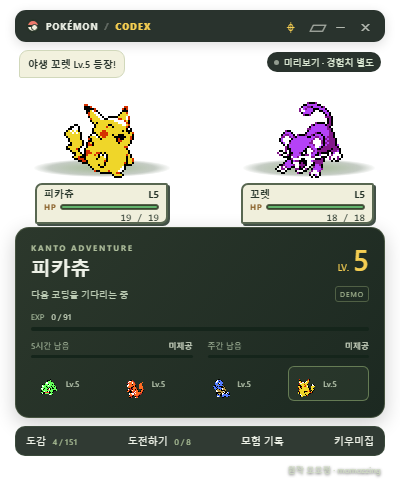
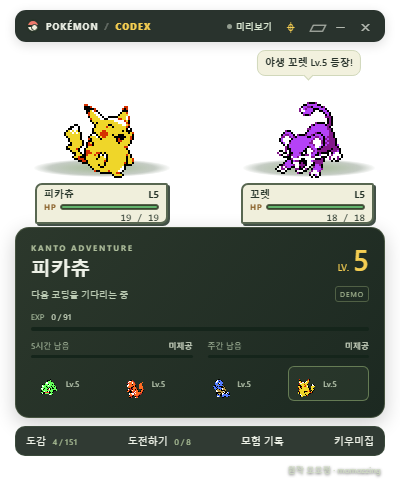
Place connection beside pin and show actions above each Pokemon

Changed region(s): [[0.03, 0.093, 0.33, 0.186], [0.63, 0.093, 0.96, 0.186], [0.57, 0.031, 0.69, 0.062]]

diff --git a/desktop/renderer.js b/desktop/renderer.js
@@ -1,6 +1,6 @@
 'use strict';
 const $=id=>document.getElementById(id),fmt=n=>Math.floor(n).toLocaleString('ko-KR');
-let serial=0,current=null,switching=false,timers=[],animations=[],captureRaf=0,moveRaf=0,playingMove=null;
+let serial=0,current=null,switching=false,timers=[],animations=[],captureRaf=0,moveRaf=0,playingMove=null,speechTimer=0;
 for(const action of ['pin','compact','hide','close'])$(action).onclick=()=>window.buddy.action(action);
 for(const b of document.querySelectorAll('[data-panel]'))b.onclick=()=>window.buddy.action('panel',b.dataset.panel);
 function sprite(element,p){const img=$(element),src='assets/'+p.id+'.gif';if(img.getAttribute('src')!==src)img.src=src;img.alt=p.name;}
@@ -95,10 +95,20 @@ function renderFoe(s){
   [...stars.children].forEach((star,i)=>{const a=[[-27,-18],[0,-33],[27,-18],[8,9]][i];star.style.transform=`translate(${a[0]*spark}px,${a[1]*spark}px) scale(${1-.3*spark})`;});
 }
 function renderSpeech(s){
-  if(s.capture?.leadIn&&Date.now()<s.capture.at){$('speech').textContent=s.capture.leadIn.text;return;}
-  const f=s.capture&&CaptureAnimation.captureFrame(s.capture,Date.now()),recent=s.animation&&Date.now()-s.animation.at<5000;
-  $('speech').textContent=f&&(f.locked||s.animation?.kind==='capture')?f.text:recent?s.animation.text:s.battle?.kind==='trainer'?s.battle.boss+'에게 도전 중':s.battle?'다음 작업과 함께 배틀을 이어가요':'오늘은 어떤 포켓몬을 만날까?';
-  $('speech').title=s.animation?.detail||$('speech').textContent;
+  clearTimeout(speechTimer);speechTimer=0;
+  const now=Date.now(),capture=s.capture,f=capture&&CaptureAnimation.captureFrame(capture,now);
+  let event=capture?.leadIn&&now<capture.at?capture.leadIn:s.animation,text='',speaker='scene',expires=0;
+  if(capture&&now>=capture.at&&(f.locked||s.animation?.kind==='capture'))text=f.text;
+  else if(event&&now>=event.at&&now-event.at<2400){
+    text=event.text;expires=event.at+2400;
+    if(event.kind==='attack')speaker=event.actor==='foe'?'foe':'hero';
+    else if(event.kind==='switch')speaker='hero';
+    else if(event.kind==='encounter')speaker='foe';
+  }else text=s.battle?.kind==='trainer'?s.battle.boss+'에게 도전 중':s.battle?'다음 작업과 함께 배틀을 이어가요':'오늘은 어떤 포켓몬을 만날까?';
+  const bubble=$('speech');bubble.dataset.speaker=speaker;$('speech-text').textContent=text;
+  bubble.title=event?.detail?text+' · '+event.detail:text;
+  // Clear an expired action even when no new state arrives from an idle Codex session.
+  if(expires&&!(f?.locked))speechTimer=setTimeout(()=>{if(current)renderSpeech(current);},Math.max(1,expires-now+10));
 }
 function refreshScene(){
   if(captureRaf)cancelAnimationFrame(captureRaf);captureRaf=0;
@@ -114,8 +124,8 @@ window.buddy.onState(s=>{
   $('xp-bar').style.width=s.progress*100+'%';$('evolution').textContent=s.evolution.some(e=>e.ready)?'진화 가능 · 도감에서 확인':'';
   $('status').textContent=s.notice||(s.battle?.kind==='trainer'?s.battle.boss+'에게 도전 중':s.phase==='working'?'Codex 작업과 함께 모험 중':s.workTokens>=250?'작업의 여운으로 모험을 이어가는 중':s.phase==='done'?'작업 끝! 모험 기록을 확인해 봐':'다음 코딩을 기다리는 중');
   $('mode-tag').textContent=s.demo?'DEMO':'LIVE';
-  $('connection-label').textContent=s.demo?'미리보기 · 경험치 별도':s.source.connected?'Codex 연결됨':'Codex 기다리는 중';
-  $('connection-label').parentElement.classList.toggle('live',s.source.connected&&!s.demo);$('connection-label').title=s.source.error||'로컬 작업 상태만 읽어요';
+  $('connection-label').textContent=s.demo?'미리보기':s.source.connected?'Codex 연결됨':'Codex 기다리는 중';
+  $('connection-label').parentElement.classList.toggle('live',s.source.connected&&!s.demo);$('connection-label').title=s.demo?'미리보기 · 경험치 별도':s.source.error||'로컬 작업 상태만 읽어요';
   s.limits.forEach((limit,i)=>{const prefix=i===0?'limit-a':'limit-b';$(prefix+'-value').textContent=limit.left===null?'미제공':limit.left+'%';$(prefix+'-bar').style.width=(limit.left??0)+'%';});
   if($('party').dataset.ids!==s.slots.map(p=>p.uid).join(',')){
     $('party').replaceChildren(...s.slots.map((p,i)=>{const b=document.createElement('button');b.dataset.slot=i;b.onclick=()=>window.buddy.action('select',Number(b.dataset.id));const img=document.createElement('img');img.alt='';b.append(img,document.createElement('small'));return b;}));$('party').dataset.ids=s.slots.map(p=>p.uid).join(',');

diff --git a/desktop/index.html b/desktop/index.html
@@ -8,16 +8,15 @@
 <main class="widget">
   <header class="toolbar">
     <div class="brand"><span class="pokeball"></span>POKÉMON <span>/</span> <b>CODEX</b></div>
-    <nav aria-label="위젯 조작">
+    <div class="toolbar-right"><div class="connection"><i></i><span id="connection-label">연결 준비 중</span></div><nav aria-label="위젯 조작">
       <button id="pin" title="항상 위에" aria-label="항상 위에" aria-pressed="true">⌖</button>
       <button id="compact" title="작게 보기" aria-label="작게 보기">▱</button>
       <button id="hide" title="트레이로 숨기기" aria-label="트레이로 숨기기">−</button>
       <button id="close" title="종료" aria-label="종료">×</button>
-    </nav>
+    </nav></div>
   </header>
   <section class="scene" aria-label="포켓몬 배틀">
-    <div class="connection"><i></i><span id="connection-label">연결 준비 중</span></div>
-    <div class="speech" id="speech" role="status">오늘도 함께 모험하자!</div>
+    <div class="speech" id="speech" data-speaker="scene" role="status"><span id="speech-text">오늘도 함께 모험하자!</span></div>
     <div class="ground hero-ground"></div><div class="ground foe-ground" id="foe-ground"></div>
     <div class="hero sprite" id="hero"><img id="hero-image" src="assets/25.gif" alt="피카츄" draggable="false"></div>
     <div class="foe sprite" id="foe"><img id="foe-image" src="assets/19.gif" alt="" draggable="false"></div>

diff --git a/desktop/battle-ui.css b/desktop/battle-ui.css
@@ -1,4 +1,14 @@
 /* Compact, fixed battle HUDs: name/level, HP gauge, then exact HP. */
+.toolbar-right{display:flex;align-items:center;gap:4px;min-width:0}
+.toolbar-right nav{flex-shrink:0}
+.toolbar .connection{position:static;max-width:110px;min-width:0;white-space:nowrap;background:none;padding:4px 2px;gap:4px}
+.toolbar .connection i{flex-shrink:0}
+.toolbar .connection span{overflow:hidden;text-overflow:ellipsis}
+.speech{left:50%;right:auto;width:max-content;max-width:310px;transform:translateX(-50%);white-space:normal;overflow:visible;text-align:center;line-height:1.35;padding:5px 7px;border-radius:8px}
+#speech-text{display:-webkit-box;-webkit-line-clamp:2;-webkit-box-orient:vertical;overflow:hidden;word-break:keep-all;overflow-wrap:anywhere}
+.speech[data-speaker=hero]{left:85px;max-width:152px}
+.speech[data-speaker=foe]{left:294px;max-width:152px}
+.speech[data-speaker=hero]:after,.speech[data-speaker=foe]:after{content:"";position:absolute;bottom:-4px;left:calc(50% - 4px);width:6px;height:6px;background:#f2f1de;border-right:1px solid #d1d8bb;border-bottom:1px solid #d1d8bb;transform:rotate(45deg)}
 .scene{height:185px}
 .compact .scene{height:182px}
 .sprite{bottom:45px}

diff --git a/README.md b/README.md
@@ -6,7 +6,7 @@
 
 **[Windows 실행 파일 받기 · 최신 릴리스](https://github.com/Bakzzi/Pokemon_codex/releases/latest)**
 
-릴리스의 `Pokemon-Codex-0.3.3-portable.zip`을 받아 압축을 풀고 `PokemonCodex.exe`를 실행하세요. ZIP 안의 폴더와 파일을 함께 유지하면 됩니다. 소스 코드 ZIP은 실행 파일 배포본과 다릅니다.
+릴리스의 `Pokemon-Codex-0.3.4-portable.zip`을 받아 압축을 풀고 `PokemonCodex.exe`를 실행하세요. ZIP 안의 폴더와 파일을 함께 유지하면 됩니다. 소스 코드 ZIP은 실행 파일 배포본과 다릅니다.
 
 ![코딩과 함께하는 포켓몬 위젯](docs/screenshots/widget.png)
 
@@ -27,6 +27,7 @@
 - 네 개의 빠른 선택 칸 중 하나를 눌러 출전시킵니다. 동시에 싸우는 포켓몬은 한 마리입니다.
 - 작게 보기에서는 배틀 아래에 **5시간·주간 남은 사용 한도**를 표시합니다. 하단 메뉴, 기술 대사와 Codex 연결 표시는 숨기며, 펼치면 일반 화면으로 돌아옵니다.
 - 양쪽 포켓몬 아래에는 **이름·L레벨 → HP 바 → 현재/최대 HP** 순서의 체력창이 항상 보입니다. 작게 보기에도 유지하며, 실제 전투 체력에 따라 초록·노랑·빨강으로 바뀝니다.
+- 연결 상태는 상단 **항상 위에 버튼 바로 왼쪽**에 표시합니다. 행동 말풍선은 실제 행동한 포켓몬 위에 뜨며, 포획 결과와 대기 안내는 가운데에 표시합니다. 이전 행동 말풍선은 잠시 뒤 사라져 상대의 새 행동과 구분됩니다.
 - **도감 / 도전하기 / 모험 기록 / 키우미집**은 위젯 하단과 트레이에서 열 수 있습니다.
 
 ## 도감과 동료
